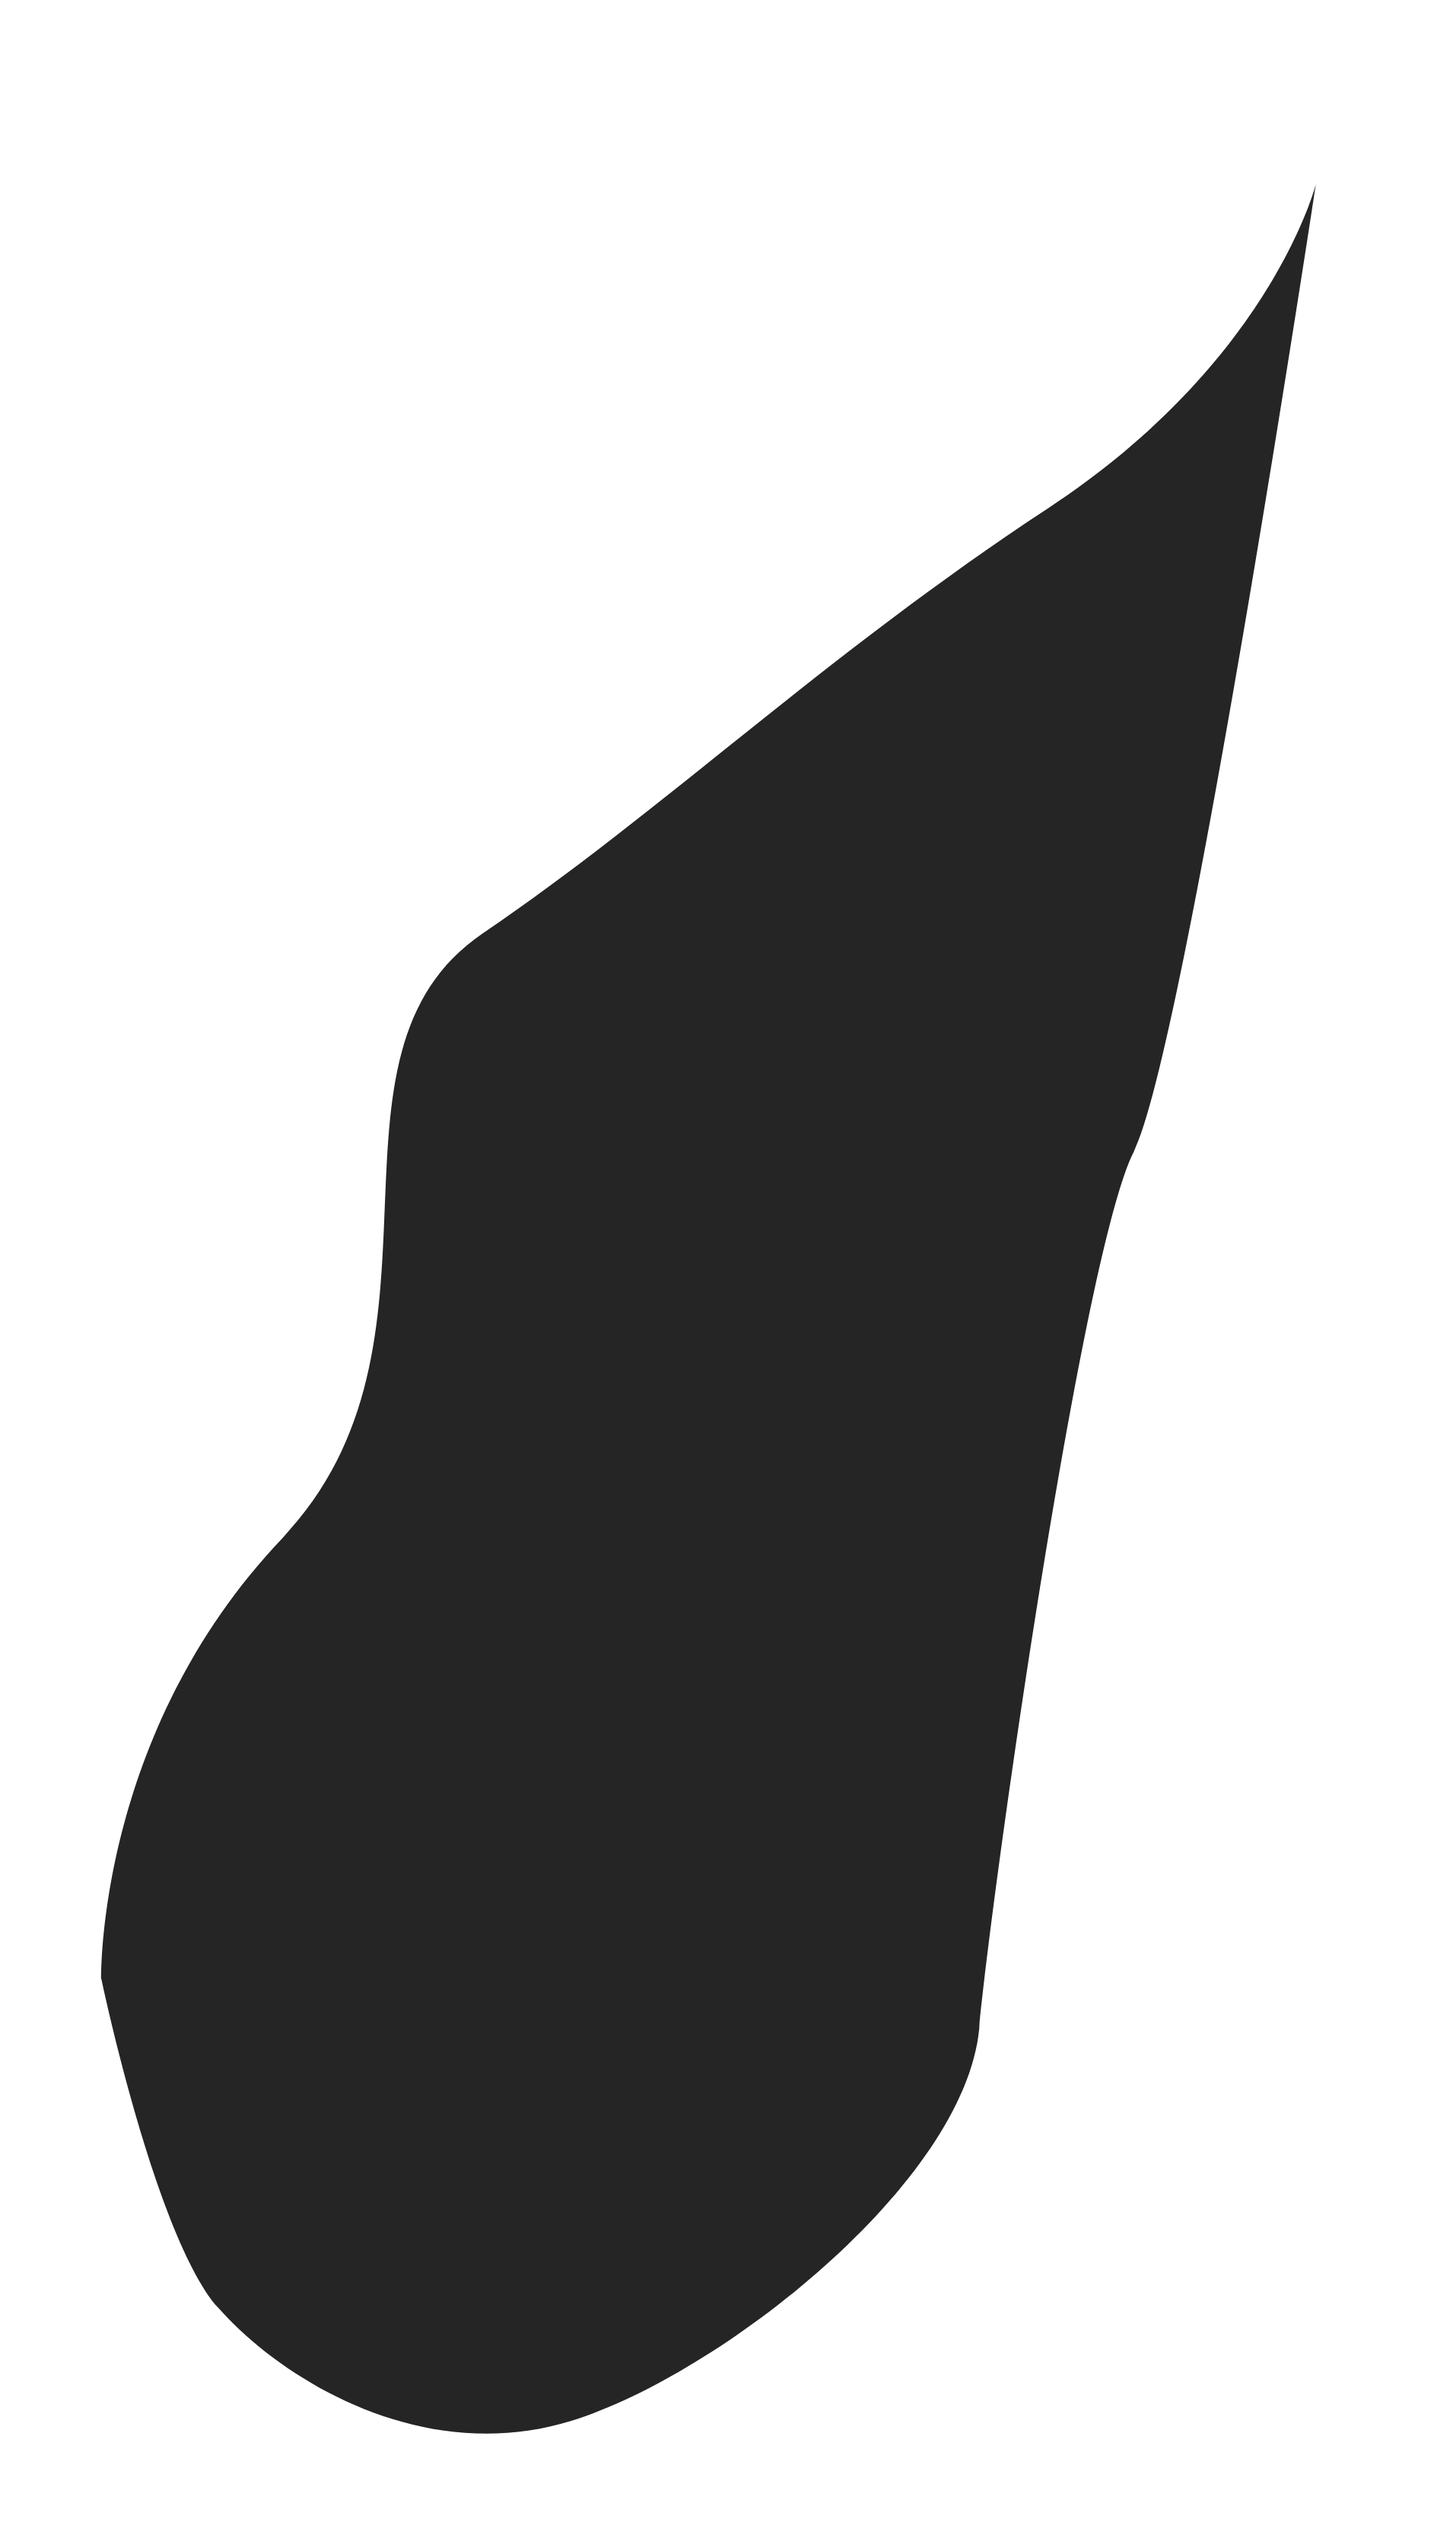
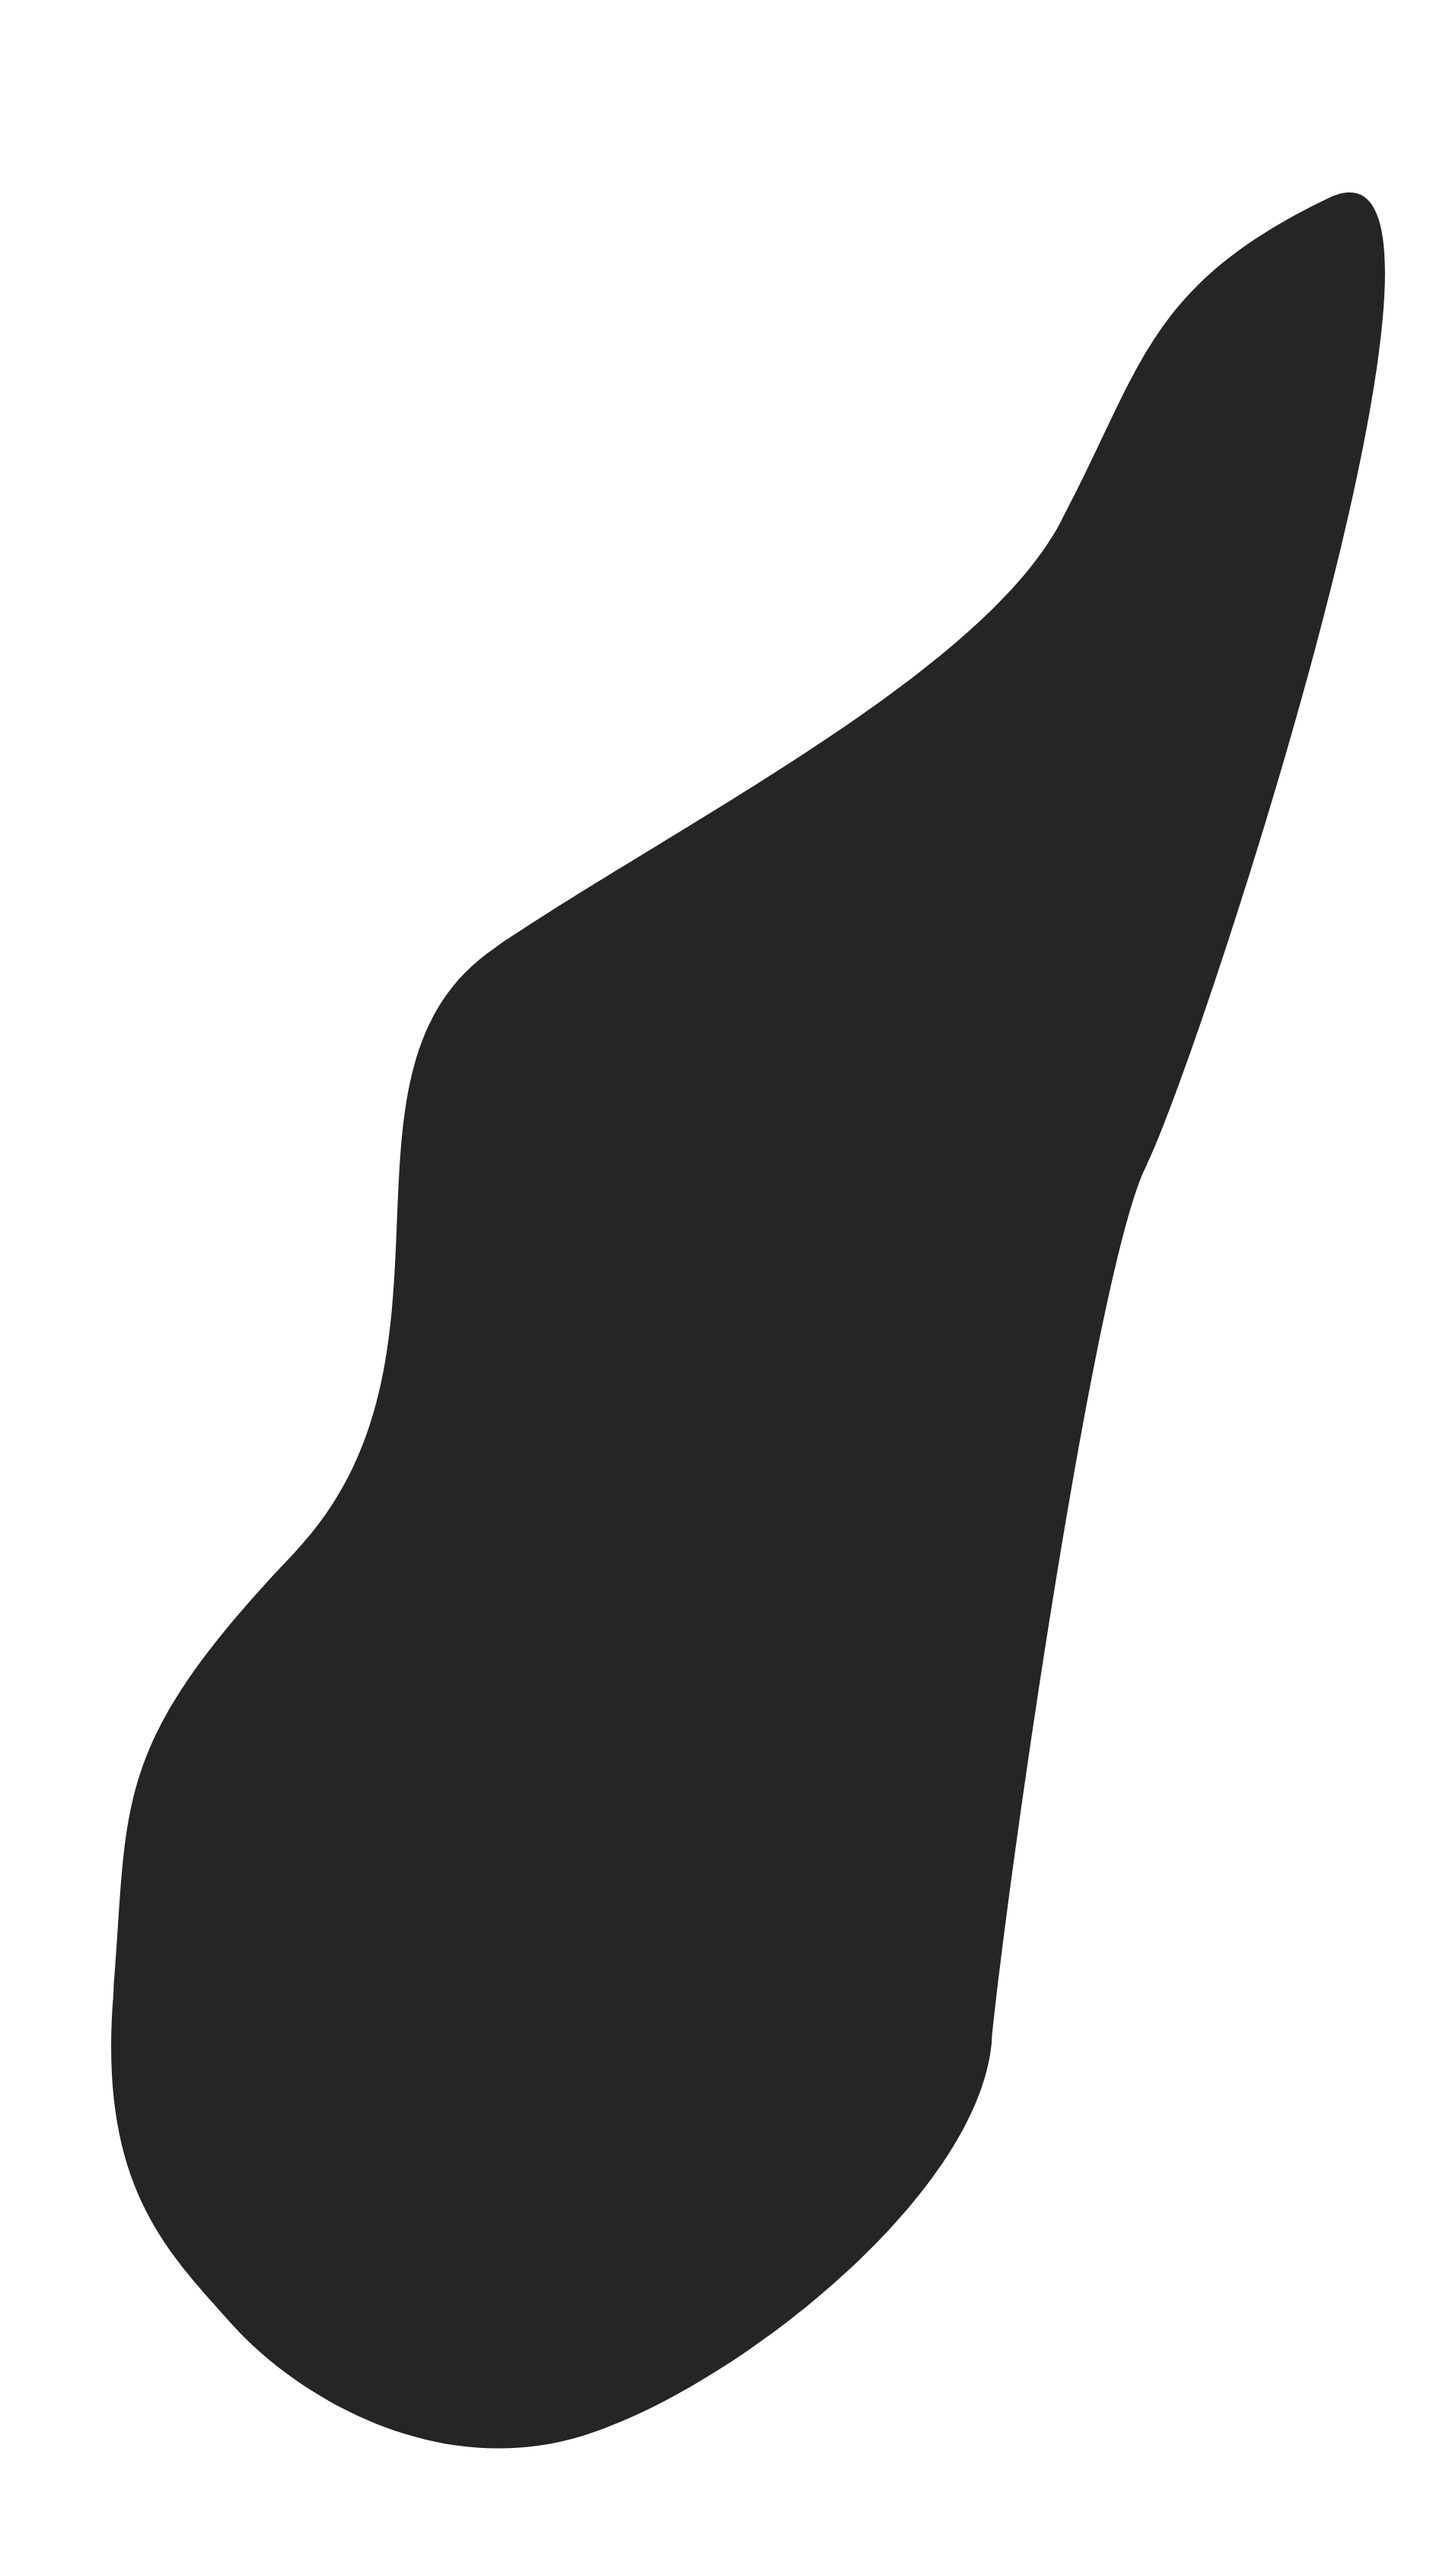
updated background art; improved responsive design

diff --git a/code/codeScript.js b/code/codeScript.js
@@ -17,37 +17,37 @@ var projectsJSON = [
         "name": "ChromNewTab",
         "date": "2020",
         "text": "I was sick and tired of my NewTab page and didn't find any good ones on the WebStore. It didn't really work... it does work as a Chrome Addon, but Chrome has some really strict policies which exceed my skills. So the project is on hold right now.",
-        "link": "https://manuelfahmy.de/"
+        "link": "https://github.com/cr4yfish/chrome-new-tab"
     },
     {    
         "name": "First React.js App",
         "date": "2021",
         "text": "I thought I was ready for stepping up my game to a WebApp, but I was wrong. At the time, I had no idea what I was doing. Be ready for the return of it soon(tm)!",
-        "link": "https://manuelfahmy.de/"
+        "link": ""
     },
     {    
         "name": "AnimeScraper",
         "date": "2021",
         "text": "Since my failure of understanding React.js, I had a new plan: <ul> <li>Learn vanilla JS</li> <li>Learn React.js</li> <li>??</li ><li>Profit!</li> </ul>Jokes aside, for this project I used more Javascript than all of the Javascript of my previous projects combined. It features different kinds of loops, sorting algorithms, AJAX, Javascript HTML Rendering and lots more! I think it actually generates more HTML from Javascript than there is non-generated-HTML.",
-        "link": "https://manuelfahmy.de/"
+        "link": "https://github.com/cr4yfish/animeScraper"
     },
     {    
         "name": "Localhost Dashboard",
         "date": "2021",
         "text": "Big story: I had multiple problems with CORS and figured it would be easier to host the website properly. So I got XAMPP and, using Javascript, coded up a Website that scrapes all my local projects on my PC and lists them in a neat UI. It uses AJAX to get names and directory paths from my projects. It also generate hrefs, so I can open any (local) website within XAMPP.",
-        "link": "https://manuelfahmy.de/"
+        "link": ""
     },
     {    
         "name": "Wallet-Website",
         "date": "2021",
         "text": "I was looking to invest some money into a crypto Project, together with a couple of friends, and didn't like the Website for it. So I tried creating my own UI that scrapes content from the original Website and uses it for individial Profit that's linked to Accounts in my working Account system. It features a working regristration process, login process and encrypted password storage in a MySQL database. I also had to learn some more PHP for this.",
-        "link": "https://manuelfahmy.de/"
+        "link": "https://github.com/cr4yfish/wallet-website"
     },
     {    
         "name": "isTodayTuesday",
         "date": "2021",
         "text": "Amid my finals in School, I was bored and wanted to code up a small project in an hour. This is the result. It tells you, using simple javascript, if it's tuesday. The Javascript system is built ready for expanding it (it checks the day from a variable, so it would be possible to upgrade it to a system where you can check if it's each day).",
-        "link": "https://manuelfahmy.de/"
+        "link": "https://github.com/cr4yfish/isTodayTuesday"
     },
     {    
         "name": "Portfolio Website 2.0",
@@ -69,6 +69,7 @@ for (i = 0; i < projectsJSON.length; i++) {
 
     let entryTitle = document.createElement("span");
     entryTitle.setAttribute("class", "entryTitle rubik_regular pointer");
+    entryTitle.setAttribute("onclick", "window.location.href='" + projectsJSON[i].link + "';");
 
     let entryDate = document.createElement("span");
     entryDate.setAttribute("class", "entryDate rubik_light");

diff --git a/code/codeStyle.css b/code/codeStyle.css
@@ -104,6 +104,13 @@ html, body {
     background-color: var(--lightYellow);
     border-radius: 1rem;
     padding: 1rem;
+    box-shadow: 0 4px 15px #0000008a;
+    transition: box-shadow 1s;
+}
+
+.grid-child:hover {
+    transition: box-shadow 0.5s;
+    box-shadow: 0 4px 15px #000000;
 }
 
 .bigHeader {
@@ -111,21 +118,28 @@ html, body {
     text-align: center;
     font-size: 2rem;
     margin-bottom: 7rem;
-}
-
-#timelineWrapper {
-    max-width: 80%;
-    position: relative;
-    left: 50%;
+    width: fit-content;
+    margin-left: 50%;
     transform: translateX(-50%);
 }
 
+#timelineWrapper {
+    position: relative;
+    margin-left: 50%;
+    transform: translateX(-50%);
+    width: 100%;
+}
+
 .entry_wrapper {
-    display: flex;
+    background-color: #272727;
+    border-radius: 1rem;
+    box-shadow: 0 3px 15px rgba(0, 0, 0, 0.061);
+    padding: 1.5rem;
+    display: block;
     flex-direction: column;
-    align-items: flex-start;
-    align-content: flex-end;
-    max-width: 30rem;
+    width: 70%;
+    margin-left: 50%;
+    transform: translateX(-50%) !important;
     height: fit-content;
     margin-bottom: 13rem;
 }
@@ -173,12 +187,16 @@ html, body {
 }
 
 @media screen and (max-width: 470px) {
+    #content_wrapper {
+        width: 80%;
+        margin-left: 10%;
+    }
     #title {
         margin-bottom: 4rem;
         margin-top: 5rem;
     }
     #timelineWrapper {
-        max-width: 100%;
+        width: 100%;
     }
     .entryTitle {
         margin-bottom: 0.5rem;

diff --git a/code/index.html b/code/index.html
@@ -36,13 +36,13 @@
             <div id="gridWrapper">
                 <div class="grid-container">
 
-                    <div class="grid-child brevia_medium">HTML</div>
-                    <div class="grid-child brevia_medium">CSS</div>
-                    <div class="grid-child brevia_medium">JS</div>
-                    <div class="grid-child brevia_medium">PHP</div>
-                    <div class="grid-child brevia_medium">Python</div>
-                    <div class="grid-child brevia_medium">Java</div>
-                    <div class="grid-child brevia_medium">C#</div>
+                    <div class="grid-child brevia_medium unselectable">HTML</div>
+                    <div class="grid-child brevia_medium unselectable">CSS</div>
+                    <div class="grid-child brevia_medium unselectable">JS</div>
+                    <div class="grid-child brevia_medium unselectable">PHP</div>
+                    <div class="grid-child brevia_medium unselectable">Python</div>
+                    <div class="grid-child brevia_medium unselectable">Java</div>
+                    <div class="grid-child brevia_medium unselectable">C#</div>
                 </div>
             </div>
             <h2  class="smallHeader brevia_medium unselectable">Scroll down to view my projects</h2>
